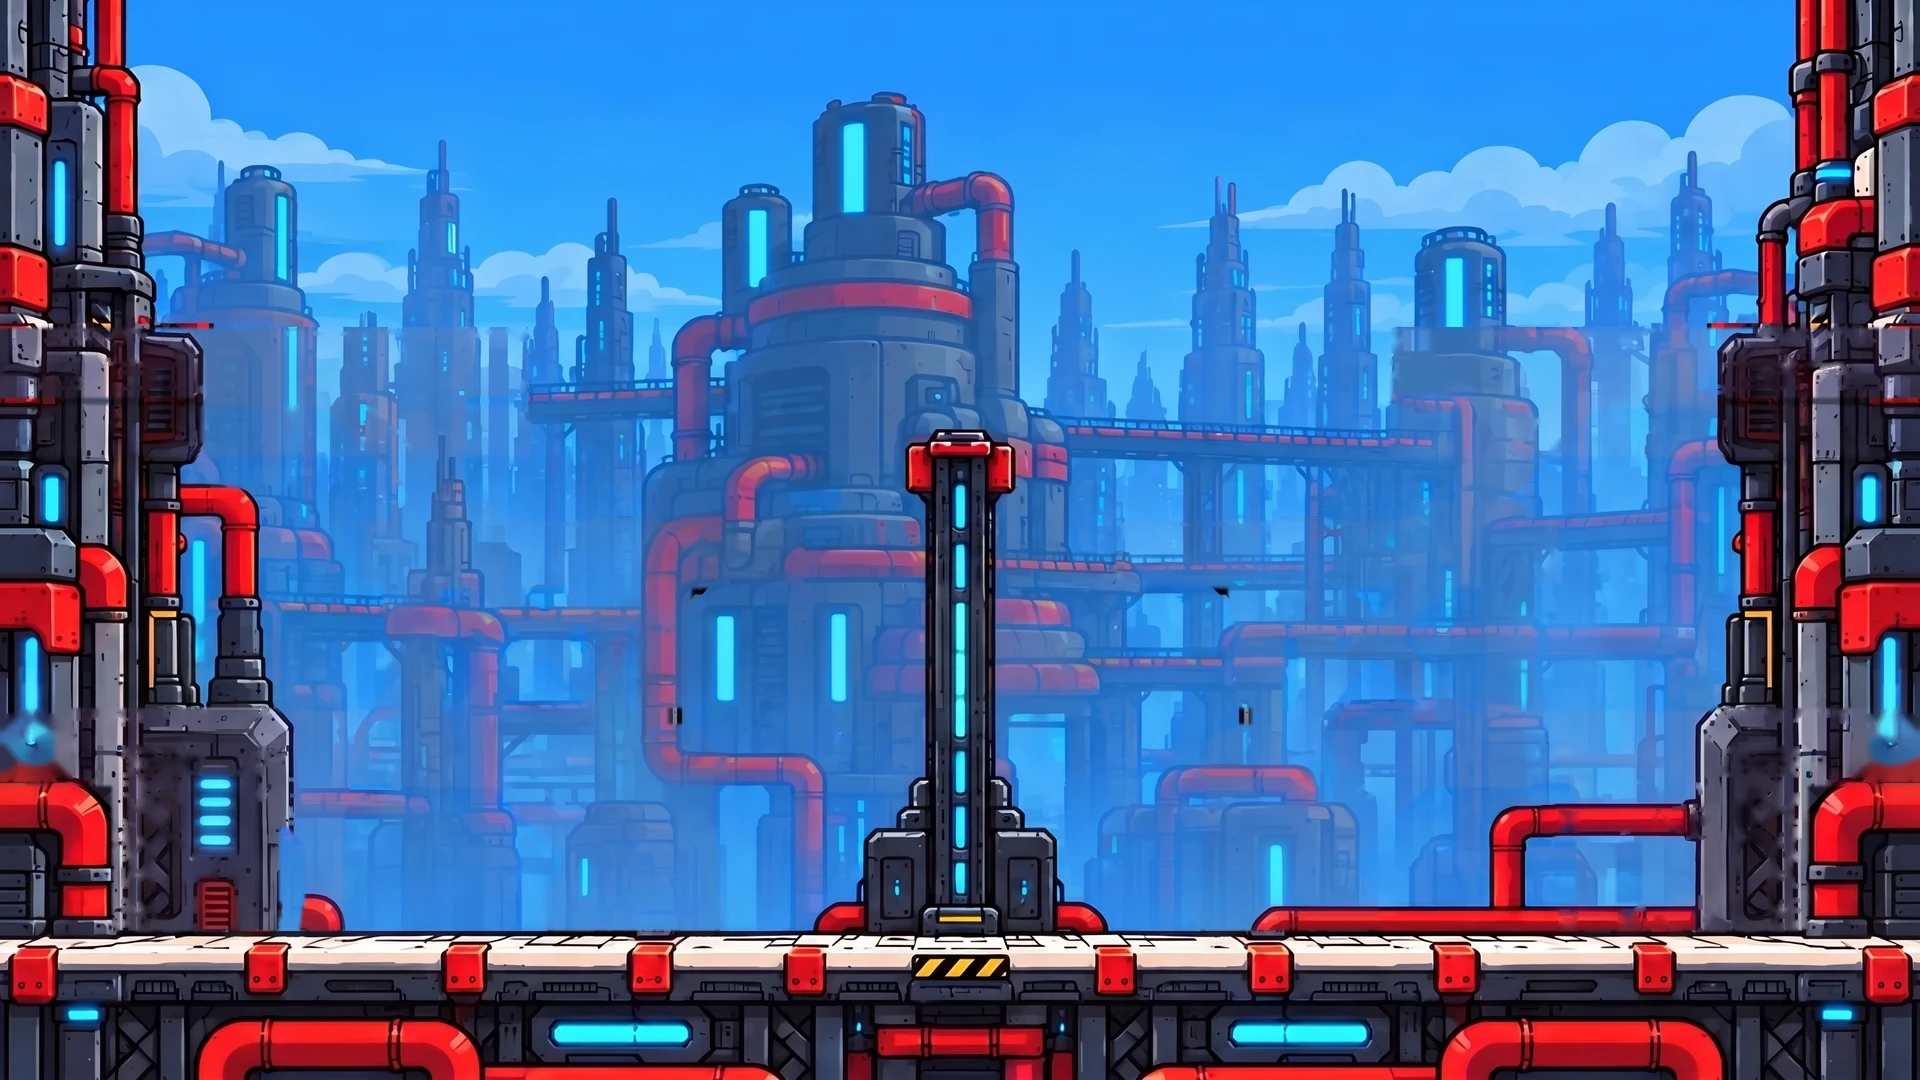
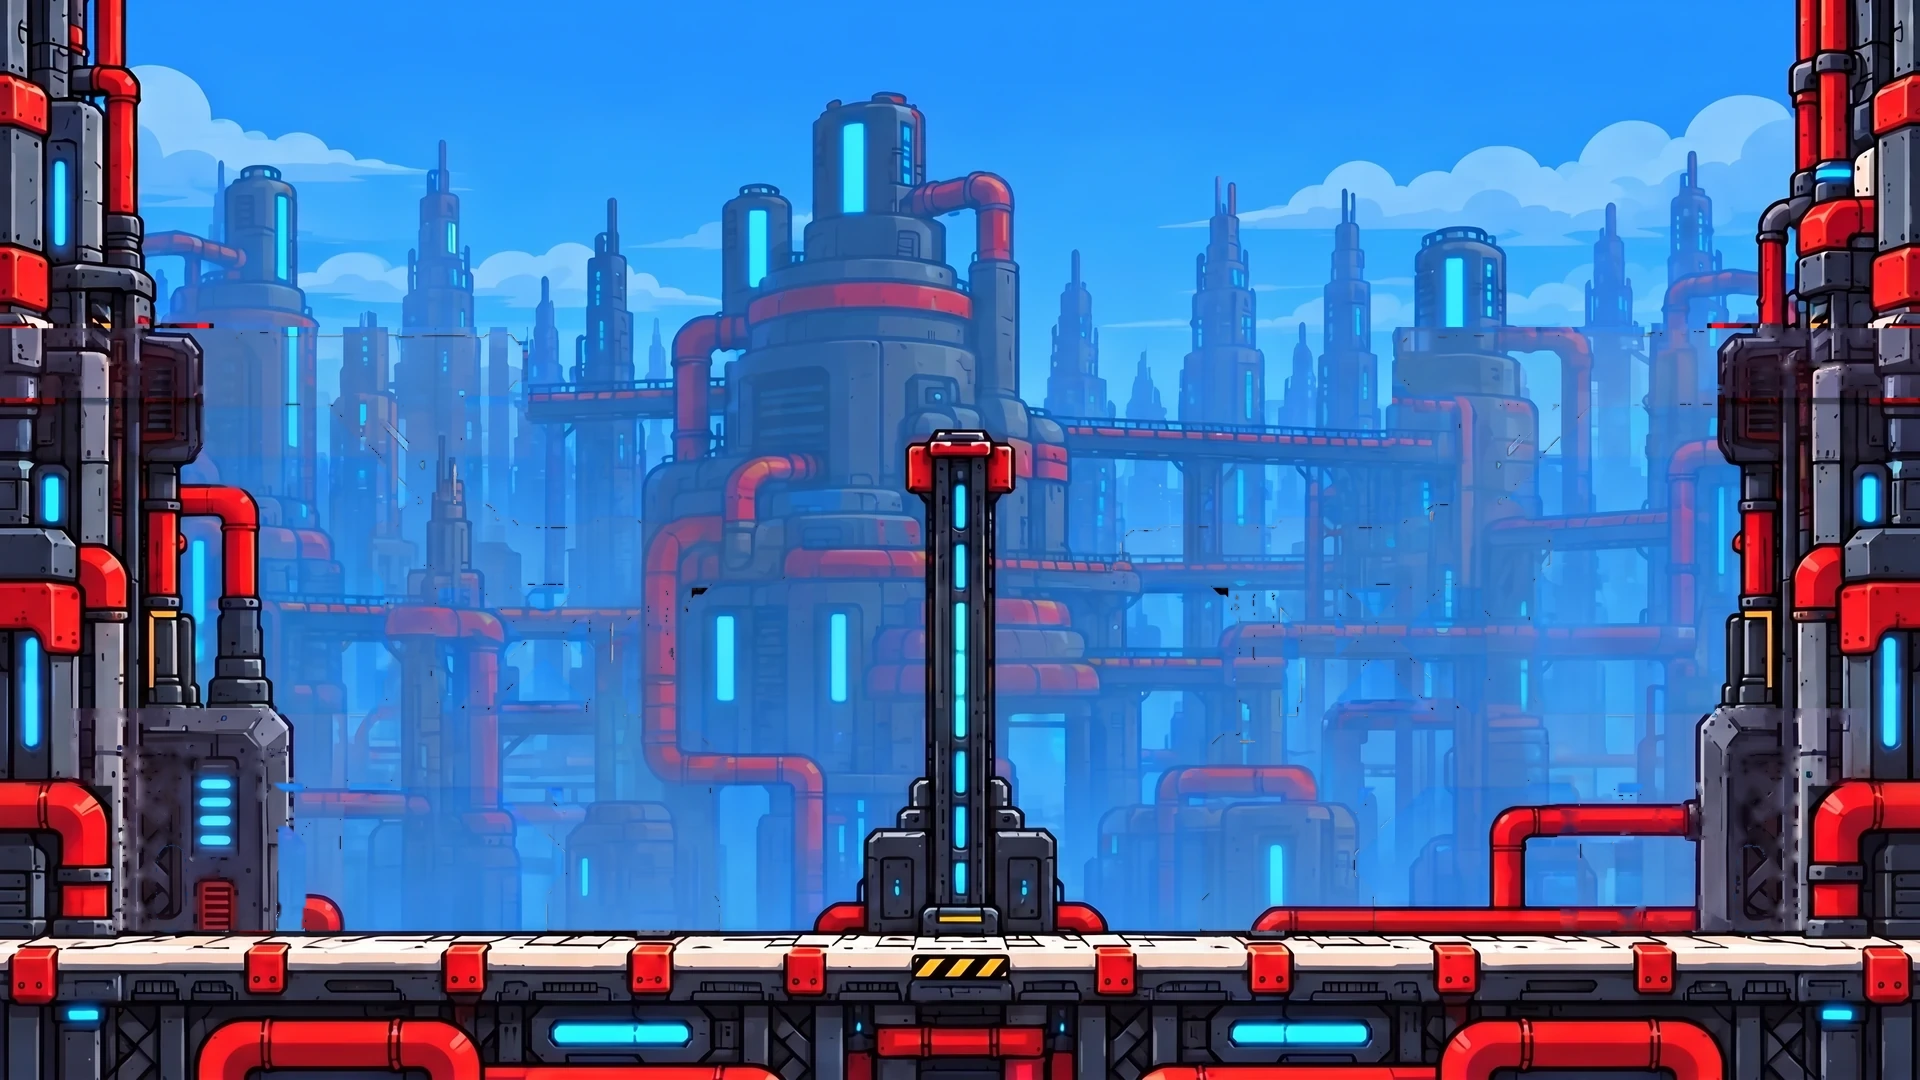
Refinería: pasarelas recortadas sin cielo
capas.py forzaba opaco todo el rectángulo `front`, que pasaba las tapas de las puntas y traía cielo adentro: al colgarse
de una punta tapaba el cuerpo, y con colores distintos para fondo y plataformas se veía un recuadro azul. Ahora la losa
es sólo la semilla, se pela el antialias azulado y se van las luces lejanas pegadas a las puntas; --keep-boxes rehace
las imágenes en las mismas cajas. Las seis pasarelas y el fondo, recortados de nuevo, y el tope de la columna con tres
rectángulos ajustados a la tapa en vez de uno con cielo.

diff --git a/prototypes/arena/editor/capas.py b/prototypes/arena/editor/capas.py
@@ -20,7 +20,9 @@ se copia de arenas/<arena>.json) y una edición del modelo con las pasarelas sac
    queda píxel a píxel.
 Escribe arenas/<arena>/fondo.webp, arenas/<arena>/<pieza>.png y arenas/<arena>.json, la arena en capas del menú del
 juego (con las piezas donde estaban en la lámina). Si esa ya está en capas no la pisa (pueden ser cambios del editor),
-salvo con --force. --check deja imágenes para comprobar: la arena armada de nuevo contra la lámina, y las piezas.
+salvo con --force. Con --keep-boxes rehace sólo las imágenes (fondo y piezas) en las mismas cajas de las piezas de
+arenas/<arena>.json (su "cut", o donde está su objeto), sin tocar el resto del JSON: colisión, front, patas, color y
+objetos quedan como están. --check deja imágenes para comprobar: la arena armada de nuevo contra la lámina, y las piezas.
 """
 import argparse
 import json
@@ -40,7 +42,7 @@ AW, AH = 1920, 1080
 # Las de la derecha son las de la izquierda espejadas (la arena es simétrica)
 LEFT = {
     "refineria": [
-        ("pasarela_abajo", 1, 4, [[0, 708, 668, 78], [112, 784, 614, 147], [636, 724, 92, 207]]),
+        ("pasarela_abajo", 1, 4, [[0, 708, 668, 78], [112, 784, 614, 147], [636, 708, 92, 223]]),
         ("pasarela_medio", 3, 2, [[362, 518, 442, 70], [376, 586, 316, 122]]),
         ("pasarela_arriba", 5, 0, [[0, 328, 530, 70], [200, 398, 330, 120]]),
     ],
@@ -84,6 +86,7 @@ def main() -> None:
     ap.add_argument("--fill-ref", help="la referencia de --fill: la edición alineada, con lo que sobraba en magenta")
     ap.add_argument("--check", type=Path, help="carpeta donde dejar las imágenes de comprobación")
     ap.add_argument("--force", action="store_true", help="pisar arenas/<arena>.json aunque ya esté en capas")
+    ap.add_argument("--keep-boxes", action="store_true", help="sólo las imágenes, en las cajas de las piezas que ya hay")
     args = ap.parse_args()
 
     out_dir = ARENA / "arenas" / args.arena
@@ -94,8 +97,12 @@ def main() -> None:
             raise SystemExit(f"{menu.relative_to(ROOT)} ya está en capas y no hay {src.relative_to(ROOT)}")
         src.write_text(menu.read_text(encoding="utf-8"), encoding="utf-8")
         print(f"  {menu.relative_to(ROOT)} → {src.relative_to(ROOT)} (la fuente, de lámina entera)")
-    if menu.exists() and "pieces" in json.loads(menu.read_text(encoding="utf-8")) and not args.force:
-        raise SystemExit(f"{menu.relative_to(ROOT)} ya está en capas (¿cambios del editor?): --force para pisarla")
+    cur = json.loads(menu.read_text(encoding="utf-8")) if menu.exists() else {}
+    if args.keep_boxes and "pieces" not in cur:
+        raise SystemExit(f"--keep-boxes: {menu.relative_to(ROOT)} todavía no está en capas")
+    if "pieces" in cur and not (args.force or args.keep_boxes):
+        raise SystemExit(f"{menu.relative_to(ROOT)} ya está en capas (¿cambios del editor?): --force para pisarla, "
+                         "o --keep-boxes para rehacer sólo las imágenes")
     arena = json.loads(src.read_text(encoding="utf-8"))
     plate_rgb = np.asarray(Image.open(ARENA / "arenas" / arena["plate"]["src"]).convert("RGB")).astype(np.float32)
     pieces = pieces_for(args.arena, arena)
@@ -132,6 +139,8 @@ def main() -> None:
     # la neblina es clara (las sombras azul oscuro de un andamio no), y el brillo alrededor de una luz cian es de la luz
     bright = cv2.dilate(((G > 200) & (B > 220)).astype(np.uint8), np.ones((9, 9), np.uint8)).astype(bool)
     haze = (B - R > 30) & (B - G > 15) & (G < 190) & (G < 0.72 * B) & (B >= 95) & ~bright
+    bluish = (B - R > 50) & (B - G > 10) & (G < 0.8 * B) & (B >= 90) & ~bright   # el antialias con el cielo (no los contornos oscuros)
+    glowish = (B - R > 45) & (B > 110)   # azul o cian: cielo, o una luz (propia, si está encerrada en la pieza)
 
     # lo que el modelo dejó igual, en manchas grandes, es del fondo aunque toque la pasarela (un caño que pasa por
     # debajo, la pared): no va en la pieza. Las motas sueltas iguales son ruido y quedan
@@ -146,38 +155,70 @@ def main() -> None:
     alike = np.abs(cv2.GaussianBlur(plate_rgb, (5, 5), 0) - cv2.GaussianBlur(empty, (5, 5), 0)).max(2) < 20
     kept_bg = big(same > 0, 2500) | cv2.dilate(big(alike, 1500, red=True).astype(np.uint8), np.ones((5, 5), np.uint8)).astype(bool)
 
-    defs, objects, allmask, allcore = {}, [], np.zeros((AH, AW), np.float32), np.zeros((AH, AW), bool)
+    defs, objects, allmask, allcore, cut = {}, [], np.zeros((AH, AW), np.float32), np.zeros((AH, AW), bool), {}
     for k, (name, si, fi, rects) in enumerate(pieces):
         mine = owner == k
-        # la losa, entera: el recorte de adelante (plate.solid) es opaco aunque el modelo haya dejado algo parecido
+        # la losa (el recorte de adelante, plate.solid) es la semilla: va lo que no es neblina y está pegado a ella. No se
+        # fuerza entera: el rectángulo pasa las tapas de las puntas y adentro hay cielo, que delante del colgado lo tapaba
         fx, fy, fw, fh = arena["plate"]["solid"][fi]
         deck = np.zeros((AH, AW), bool)
         deck[fy:fy + fh, max(0, fx):fx + fw] = True
         deck &= mine
-        core = (mine & ~haze & ~kept_bg) | deck
-        # sin líneas sueltas de 1 o 2 px (el contorno de algo del fondo que quedó afuera)
-        core = cv2.morphologyEx(core.astype(np.uint8), cv2.MORPH_OPEN, np.ones((3, 3), np.uint8)).astype(bool) | deck
+        core = mine & ~haze & ~kept_bg
+        # sin líneas sueltas de 1 o 2 px (el contorno de algo del fondo que quedó afuera); la losa, sin tocar
+        core = cv2.morphologyEx(core.astype(np.uint8), cv2.MORPH_OPEN, np.ones((3, 3), np.uint8)).astype(bool) | (core & deck)
         # sólo lo que está pegado a la losa: los pedazos sueltos (un caño, una mota) quedan en el fondo
         n, lab = cv2.connectedComponents(core.astype(np.uint8), connectivity=8)
-        keep = np.unique(lab[deck & (lab > 0)])
+        keep = np.unique(lab[deck & core & (lab > 0)])
         core = np.isin(lab, keep) & (lab > 0)
-        # los agujeros chicos (el brillo de una luz, una mota de neblina en un panel) se tapan; los grandes (entre las
-        # cruces de un andamio) son fondo y quedan
+        # los agujeros muy chicos (una mota en un panel) se tapan; los de neblina entre las cruces son fondo y quedan
         n, lab, st, _ = cv2.connectedComponentsWithStats((~core).astype(np.uint8), connectivity=4)
-        for i in np.nonzero(st[1:, cv2.CC_STAT_AREA] < 600)[0] + 1:
-            core |= (lab == i) & mine
+        for i in np.nonzero(st[1:, cv2.CC_STAT_AREA] < 120)[0] + 1:
+            core |= (lab == i) & mine & ~haze
+        # el borde, pelado: el antialias del contorno con el cielo deja una línea azulada (sobre todo arriba de la losa)
+        for _ in range(2):
+            edge = core & ~cv2.erode(core.astype(np.uint8), np.ones((3, 3), np.uint8)).astype(bool)
+            core &= ~(edge & bluish)
+        # y lo azul que toca el afuera de la pieza y sigue en el fondo sin pasarelas (las luces de una torre lejana pegadas
+        # a una punta) se va; las luces de los postes, que el modelo sacó con la pasarela, quedan. Después, otra vez sólo
+        # lo pegado a la losa
+        n, lab = cv2.connectedComponents((~core | (core & glowish)).astype(np.uint8), connectivity=4)
+        outside = np.unique(lab[~core & (lab > 0)])
+        core &= ~(np.isin(lab, outside) & glowish & alike)
+        # las manchitas azules que quedan sueltas en el borde (pedazos de esas luces) también; una luz de poste es más grande
+        n, lab, st, _ = cv2.connectedComponentsWithStats((core & glowish).astype(np.uint8), connectivity=8)
+        rim = cv2.dilate((~core).astype(np.uint8), np.ones((3, 3), np.uint8)).astype(bool)
+        small = [i for i in range(1, n) if st[i, cv2.CC_STAT_AREA] < 150]
+        core &= ~(np.isin(lab, [i for i in small if rim[lab == i].any()]))
+        n, lab = cv2.connectedComponents(core.astype(np.uint8), connectivity=8)
+        core = np.isin(lab, np.unique(lab[deck & core & (lab > 0)])) & (lab > 0)
         m8 = core.astype(np.uint8)
         allcore |= core
-        alpha = np.clip(cv2.GaussianBlur(m8.astype(np.float32), (3, 3), 0) * 1.35, 0, 1)   # borde de 1 px, suave
-        ys, xs = np.nonzero(alpha > 0.02)
-        bx, by, bx1, by1 = int(xs.min()), int(ys.min()), int(xs.max()) + 1, int(ys.max()) + 1
+        # el alfa: duro adentro; suave (1 px) sólo en el borde que da al cielo, donde estaba el antialias. Donde la zona corta
+        # la pieza contra una pared queda duro, y así calza con la lámina de al lado sin costura
+        soft = np.clip(cv2.GaussianBlur(m8.astype(np.float32), (3, 3), 0) * 1.35, 0, 1)
+        sky_edge = cv2.dilate((haze & ~core).astype(np.uint8), np.ones((3, 3), np.uint8)).astype(bool)
+        alpha = np.where(core, np.where(sky_edge, soft, 1.0), 0.0).astype(np.float32)
+        if args.keep_boxes:   # la caja de la pieza que ya está en el JSON: no cambia nada más
+            d0 = cur["pieces"][name]
+            org = d0.get("cut") or next([o["x"], o["y"]] for o in cur.get("objects", []) if o.get("piece") == name)
+            bx, by, bx1, by1 = int(org[0]), int(org[1]), int(org[0]) + d0["w"], int(org[1]) + d0["h"]
+            box = np.zeros((AH, AW), bool); box[max(0, by):by1, max(0, bx):bx1] = True
+            out = float(alpha[~box].sum())
+            if out > 50:
+                print(f"  ojo: {name} tiene {out:.0f} px de alfa fuera de su caja (quedan afuera)")
+            alpha = alpha * box
+            cut[name] = [bx, by]
+        else:
+            ys, xs = np.nonzero(alpha > 0.02)
+            bx, by, bx1, by1 = int(xs.min()), int(ys.min()), int(xs.max()) + 1, int(ys.max()) + 1
         rgba = plate_rgba[by:by1, bx:bx1].copy()
         rgba[..., 3] = np.round(alpha[by:by1, bx:bx1] * 255).astype(np.uint8)
         Image.fromarray(rgba, "RGBA").save(out_dir / f"{name}.png", optimize=True)
         allmask = np.maximum(allmask, alpha)
         s = arena["solids"][si]
         defs[name] = {
-            "src": f"{args.arena}/{name}.png", "w": bx1 - bx, "h": by1 - by,
+            "src": f"{args.arena}/{name}.png", "w": bx1 - bx, "h": by1 - by, "cut": [bx, by],
             "solids": [{"kind": s["kind"], "x": s["x"] - bx, "y": s["y"] - by, "w": s["w"], "ledge": "both"}],
             "front": [[fx - bx, fy - by, fw, fh]],
         }
@@ -194,11 +235,31 @@ def main() -> None:
     if left.any():
         empty = cv2.inpaint(np.clip(empty, 0, 255).astype(np.uint8), left, 9, cv2.INPAINT_TELEA).astype(np.float32)
     # el fondo: la lámina, y la edición sólo donde había pieza (un poco más ancho, sin salir de su zona, con transición)
-    grow = (cv2.dilate((allmask > 0.02).astype(np.uint8), np.ones((7, 7), np.uint8)).astype(bool) & anyzone).astype(np.float32)
-    grow = cv2.GaussianBlur(grow, (7, 7), 0)[..., None]
+    # (debajo de la pieza, siempre; alrededor, hasta 3 px, sólo sobre la neblina del cielo, para que al mover la pieza no
+    # quede el fantasma de su contorno: al lado de una pared, la de la edición no es la de la lámina y se vería el corte)
+    piece = (allmask > 0.02).astype(np.uint8)
+    grow = (piece.astype(bool) | (cv2.dilate(piece, np.ones((7, 7), np.uint8)).astype(bool) & haze)).astype(np.float32)
+    grow = np.where(piece.astype(bool) | haze, cv2.GaussianBlur(grow, (5, 5), 0), 0)[..., None]   # sin desbordar a una pared
     fondo = plate_rgb * (1 - grow) + empty * grow
     Image.fromarray(np.clip(np.round(fondo), 0, 255).astype(np.uint8), "RGB").save(out_dir / "fondo.webp", quality=92, method=6)
 
+    import importlib.util
+    spec = importlib.util.spec_from_file_location("serve", HERE / "serve.py")
+    serve = importlib.util.module_from_spec(spec)
+    spec.loader.exec_module(serve)
+    if args.keep_boxes:   # del JSON sólo se suma, si faltaba, de dónde salió cada pieza ("cut")
+        if any("cut" not in cur["pieces"][n] for n in cut):
+            for n, c in cut.items():
+                cur["pieces"][n] = {**{k: v for k, v in cur["pieces"][n].items() if k in ("src", "w", "h")}, "cut": c,
+                                    **{k: v for k, v in cur["pieces"][n].items() if k not in ("src", "w", "h", "cut")}}
+            menu.write_text(serve.fmt(cur) + "\n", encoding="utf-8")
+        print(f"✓ {out_dir.relative_to(ROOT)}/: fondo.webp y {len(cut)} piezas, en sus cajas; {menu.relative_to(ROOT)} igual")
+    else:
+        write_layered(args, arena, pieces, defs, objects, menu, out_dir, serve)
+    check(args, out_dir, objects, plate_rgb, allmask, empty)
+
+
+def write_layered(args, arena, pieces, defs, objects, menu, out_dir, serve) -> None:
     # la arena en capas: lo fijo (piso, columna y su recorte) queda; las pasarelas pasan a objetos con su pieza
     used_s = {si for _, si, _, _ in pieces}
     used_f = {fi for _, _, fi, _ in pieces}
@@ -221,13 +282,11 @@ def main() -> None:
     layered["objects"] = objects + arena.get("objects", [])
     order = ["name", "note", "size", "seed", "plate", "pieces", "solids", "objects", "spawns", "decor", "pipes"]
     layered = {k: layered[k] for k in order if k in layered} | {k: v for k, v in layered.items() if k not in order}
-    import importlib.util
-    spec = importlib.util.spec_from_file_location("serve", HERE / "serve.py")
-    serve = importlib.util.module_from_spec(spec)
-    spec.loader.exec_module(serve)
     menu.write_text(serve.fmt(layered) + "\n", encoding="utf-8")
     print(f"✓ {out_dir.relative_to(ROOT)}/: fondo.webp y {len(defs)} piezas; {menu.relative_to(ROOT)} en capas")
 
+
+def check(args, out_dir, objects, plate_rgb, allmask, empty) -> None:
     if args.check:   # la arena armada de nuevo (fondo + piezas en su lugar) contra la lámina, y la máscara
         args.check.mkdir(parents=True, exist_ok=True)
         comp = Image.open(out_dir / "fondo.webp").convert("RGBA")
